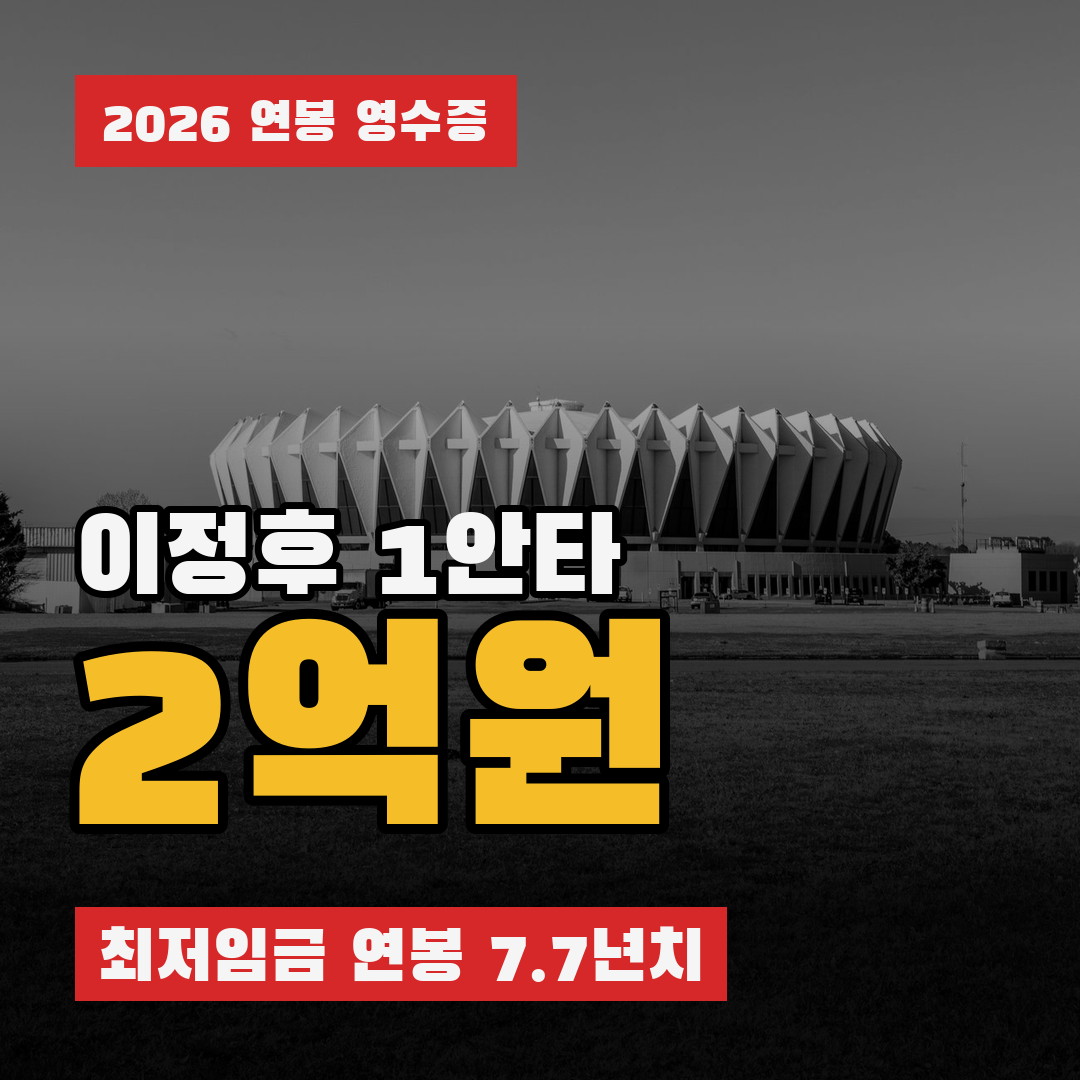
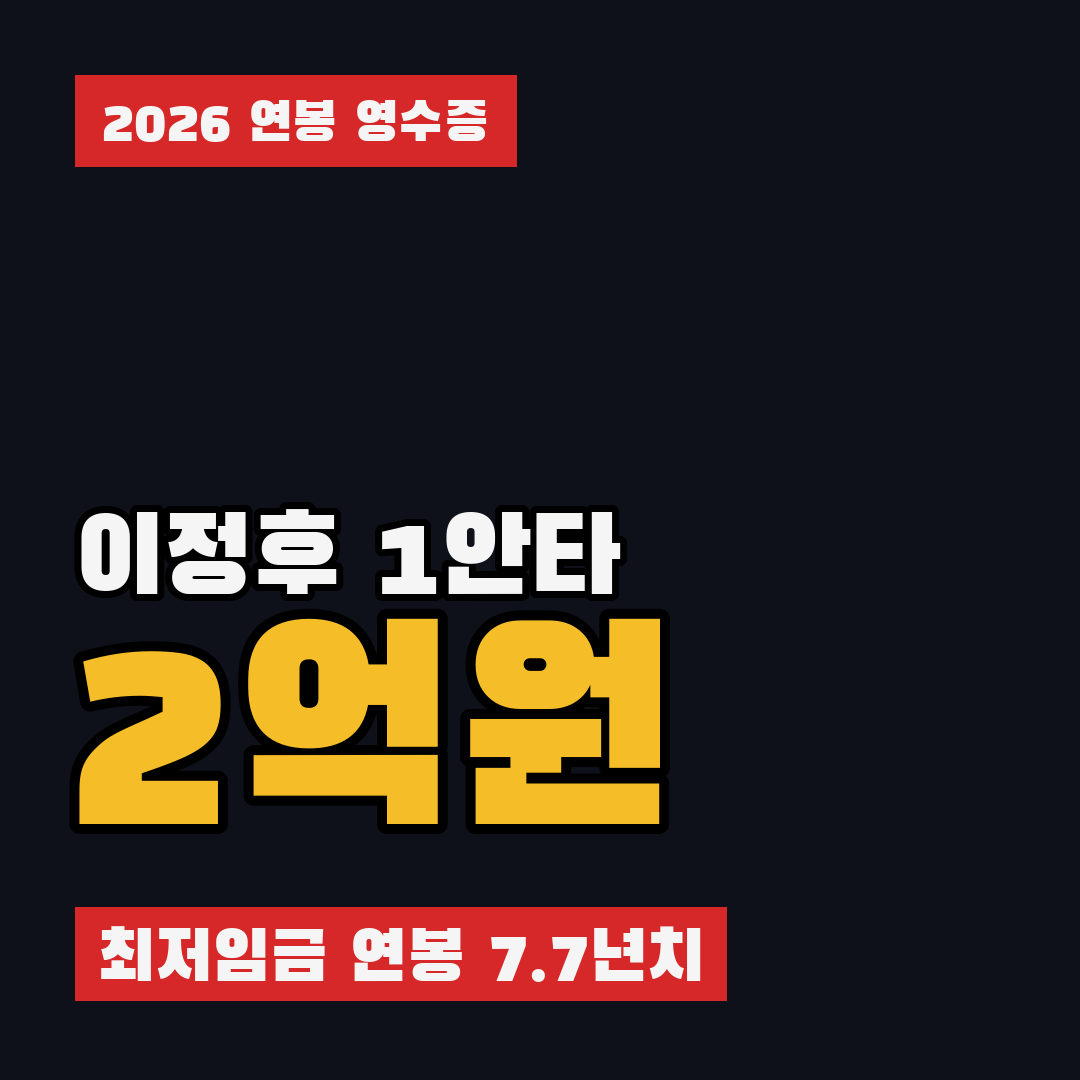
Pexels 사진 거르기: 종목과 상관없는 사진·흑백 사진 제외
- 이정후 썸네일에 야구와 무관한 흑백 실내 경기장 사진이 들어간 문제
- 사진 설명(alt)에 종목 단어가 있고 흑백 표기가 없는 사진만, 받은 뒤 평균 채도로 한 번 더 확인
- 사진을 못 찾으면 예전 출처 줄도 지움
- 이정후 사진 삭제 (다음 '이미지 다시 그리기'에서 새로 받음)

Claude-Session: https://claude.ai/code/session_01HNJTaMMcXgMjQhv2iW7WGc

diff --git a/content/rebuild.py b/content/rebuild.py
@@ -16,13 +16,13 @@ from . import photos, receipt
 
 def add_credit(folder: Path) -> None:
     line = photos.credit(folder)
-    if not line:
-        return
     for f in (folder / "body.txt", folder / "post.md"):  # 예전 출처 줄은 지우고 새로 붙인다
         if not f.exists():
             continue
         s = "\n".join(l for l in f.read_text(encoding="utf-8").splitlines() if "/ Pexels (" not in l)
-        if f.name == "body.txt":
+        if not line:
+            s = s.rstrip() + "\n"
+        elif f.name == "body.txt":
             s = s.rstrip() + "\n\n" + line + "\n"
         elif "\n## 출처" in s:
             s = s.replace("\n## 출처", f"\n{line}\n\n## 출처", 1)

diff --git a/posts/2026-10-01-이정후-영수증/post.md b/posts/2026-10-01-이정후-영수증/post.md
@@ -75,7 +75,6 @@
 
 기준: 연봉·계약은 계약 세부 공개 보도, 성적은 2026년 9월 말 보도, 환율은 2026년 9월 29일 오후 3시 30분 서울 외환시장, 최저임금은 고용노동부 고시(시급 10,320원, 월 209시간) 기준이에요.
 
-대표 사진: Phil Evenden / Pexels (https://www.pexels.com/photo/black-and-white-photo-of-hampton-coliseum-virginia-36655231/)
 
 ## 출처
 
